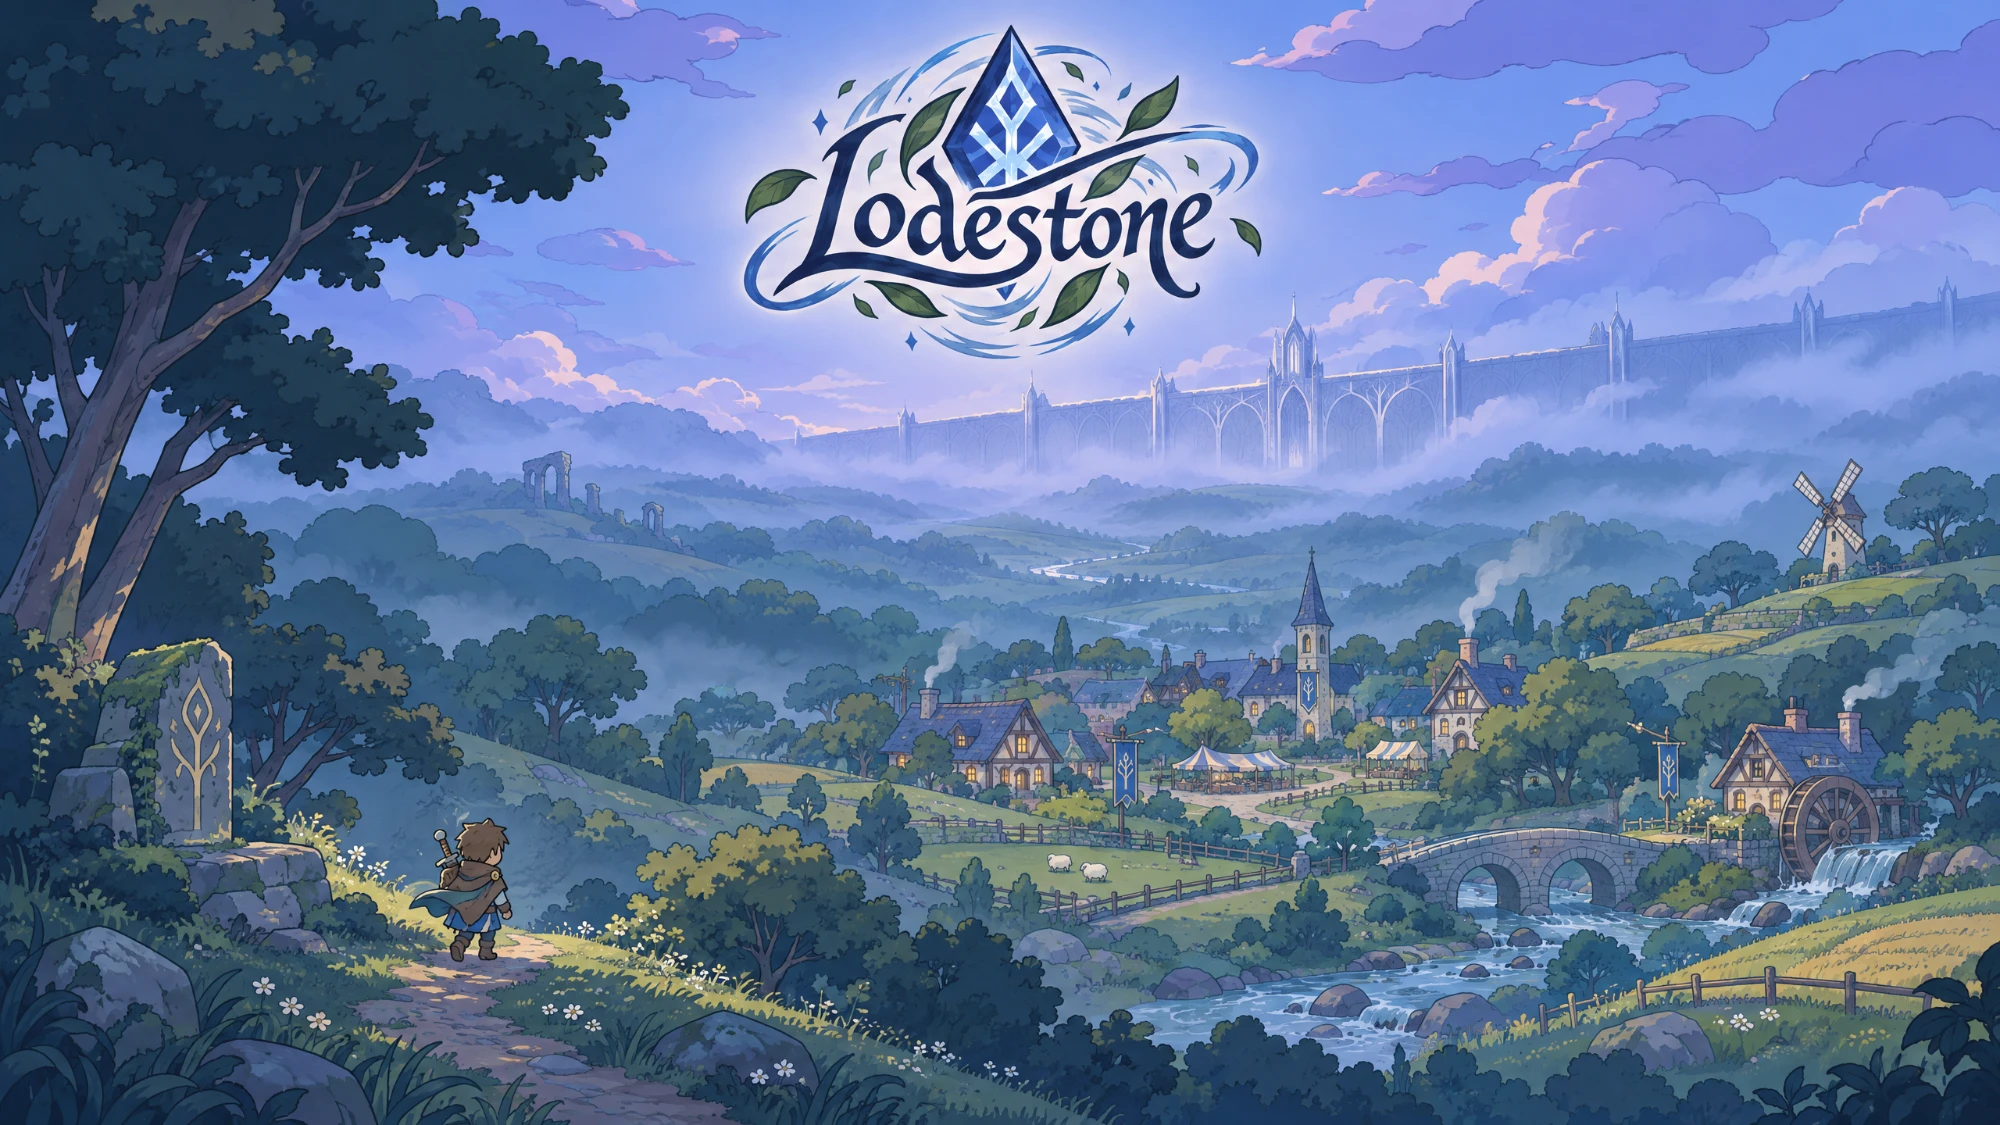
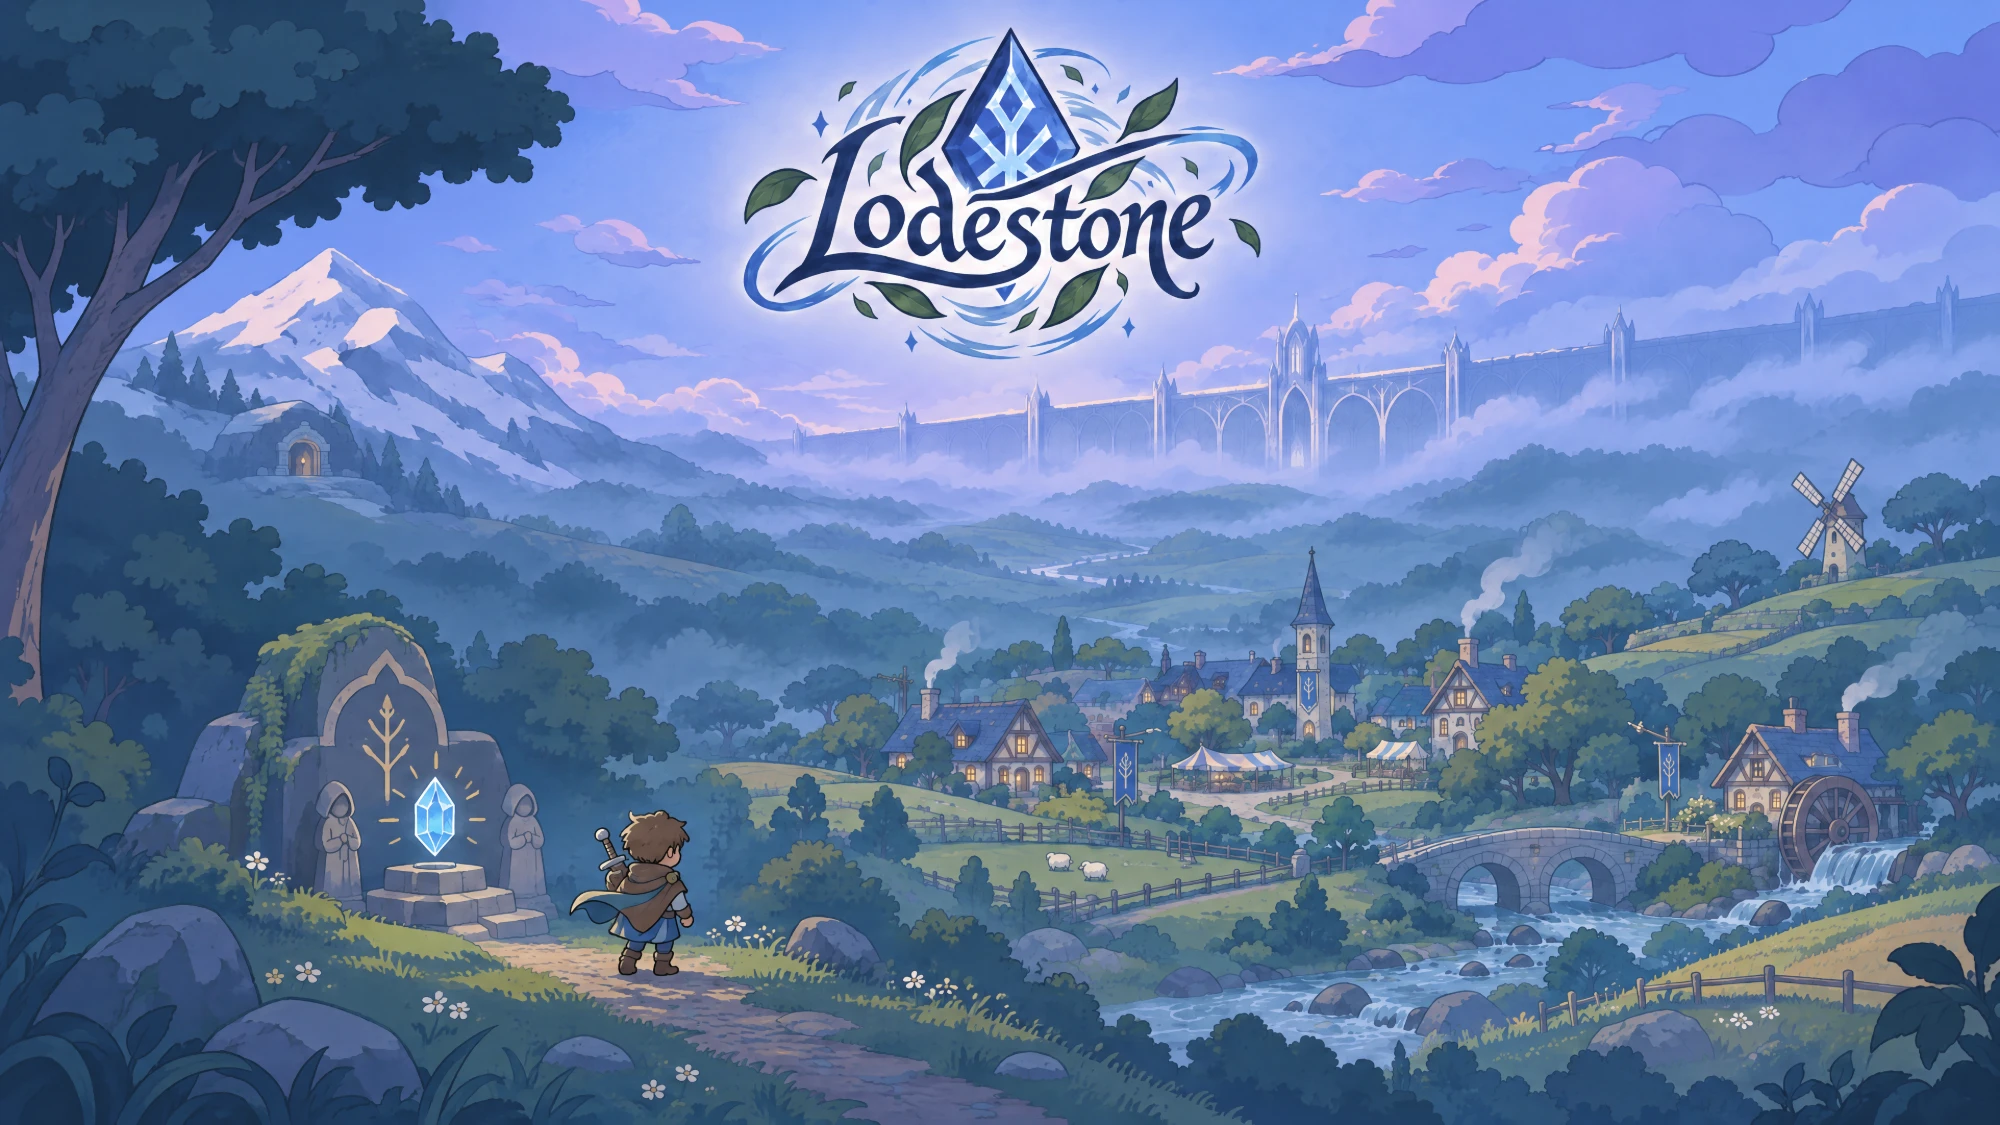
Main menu: Brandon's second title painting, buttons in the middle; app builds for big releases only
- title_screen.webp replaced with his new version (mountain cave, crystal shrine).
- The buttons stand in the middle of the screen, kept under the painted logo; a soft pool of shade behind them.
- CLAUDE.md: Mac/Windows builds only for a big release, never offered for ordinary work; day to day a change is done when it works in local Godot.

diff --git a/docs/systems/player-path.md b/docs/systems/player-path.md
@@ -3,7 +3,7 @@
 Built 2026-11-13 from a new-player E2E playtest (backlog section "2026-11-13 new-player playtest"). Brandon: "Yes, do all of this please. I think it would make sense if we had a "random encounter" that wasnt so random the first time a user goes out on the road that is a fair fight and has any explainers we need in it. And yes, there should be a main menu player path, with maybe another button for "Star game in Dev Mode" or the "Dev Tools" menu that if you click it opens all of our other tools we currently have on that main launch page."
 
 ## Main menu and dev mode
-- The game opens on `scenes/main_menu.tscn` (`MainMenu`): Brandon's title painting (`art/source/ui/menu/title_screen.webp`, 2026-11-13; the logo is painted in, so the menu draws no title) with a slow side-to-side sway, pinned to the top so the logo is never cut at any window shape. CONTINUE (when there is a save), NEW GAME (asks first when a save exists), OPTIONS and QUIT run down the dark trees on the left, clear of the logo, the hero and the village. Music: `menu`.
+- The game opens on `scenes/main_menu.tscn` (`MainMenu`): Brandon's title painting (`art/source/ui/menu/title_screen.webp`, 2026-11-13; the logo is painted in, so the menu draws no title) with a slow side-to-side sway, pinned to the top so the logo is never cut at any window shape. CONTINUE (when there is a save), NEW GAME (asks first when a save exists), OPTIONS and QUIT stand in the middle of the screen (Brandon: "Put em smack in the middle"), pushed down only as far as needed to stay under the logo (`LOGO_BOTTOM`). Music: `menu`.
 - DEV TOOLS (bottom right) opens the old launch page (`scenes/launch.tscn`, now titled DEV TOOLS) with every map, fight and tool. It shows only when `Game.dev_available()`: a debug build (the editor, `tools/godot.sh`) or a Mac with `~/.lodestone/dev`. Exported release builds never show it.
 - `Game.dev_mode`: on when the Dev Tools page opens or an F7/F8/F10 key is used; off on the main menu. Dev mode shows the god-mode "!" button, the fight test buttons (AUTO, LAYOUT), every playable character on the gate picker, and no hints. `Game.menu_scene()` is where "main menu" buttons go: Dev Tools in dev mode, else the main menu. SAVE AND EXIT and the end-of-playtest button use it.
 - F7, F8 and F10 work only when dev tools are available.

diff --git a/docs/art/ART-LOG.md b/docs/art/ART-LOG.md
@@ -31,7 +31,7 @@ The generated outputs are not in git, so a second machine can't see them. The re
 | --- | --- | --- | --- | --- |
 | Flat forest style panel | `docs/art/references/style-flat-forest*.png` | Brandon's own work | **approved** | The style reference for tiles and plates. |
 | Lodestone logo | `art/brand/lodestone-logo.webp` (transparent background) | Brandon's own work | **approved** | Brandon, 2026-10-29. Sits on parchment `#ece6d4` at the top of the studio page. |
-| Title screen painting (logo painted in) | `game/art/source/ui/menu/title_screen.webp` (2000 x 1125) | Brandon's own art | **approved** | Brandon, 2026-11-13: "Make this the menu screen please". The main menu's backdrop; the menu draws no title over it. |
+| Title screen painting (logo painted in) | `game/art/source/ui/menu/title_screen.webp` (2000 x 1125) | Brandon's own art | **approved** | Brandon, 2026-11-13: "Make this the menu screen please", then the same day a second version with the mountain cave and the crystal shrine ("use this one please"), which replaced the first. The main menu's backdrop; the menu draws no title over it. |
 | Flat zone tile sets (forest, snow, ruins, dungeon, farmland, marsh, canyon, crystal) | `game/art/source/battle/<set>/` | Picsart GPT image, cut by `kit_cut.py` | draft | In use in battle; Brandon hasn't signed them off. |
 | Village tiles and props (first set) | `art/picsart/out/village/`; `village_in/` still in the game | Picsart, `picsart_village.py` | **archived** for the town (2026-10-29), replaced by the fall set; the interiors still use `village_in` | About $1.57. |
 | Fall village set | `game/art/source/battle/village/` | code tops (`code_tops.py --biome village_fall`), Picsart sides, props, foliage, four homes; smithy, tavern and town hall cut from the v2 look sheet as stand-ins | **approved** (Brandon, 2026-10-29: "replace the town assets") | Run sheet B and the home B / C re-roll next. |

diff --git a/CLAUDE.md b/CLAUDE.md
@@ -15,13 +15,10 @@ Read `docs/context/README.md` first, then `docs/context/current-state.md`. Toget
 - After a change, run `tools/check.sh` (headless import, unit tests, scene smoke runs) and fix every error.
 - Any Godot run that opens a window (the `game/tools/*_shot.gd` screenshot scripts) goes through `tools/godot.sh <args>`, never the bare binary. It runs a private focus-free copy of Godot (built by `tools/nofocus/setup.sh`) that can never become the front app, so Brandon's windows, keyboard and mouse are never touched. Never run a windowed Godot any other way. Headless runs can use either.
 
-## Playtest builds at every major milestone
-Brandon, 2026-11-13: build the Mac and Windows copies "at regular major milestones". A major milestone is any of these:
-- a numbered milestone (M1, M2...) lands;
-- a feature or fix batch Brandon approved is merged to main;
-- before anything goes to friends and family testers.
+## Playtest builds: big releases only
+Day to day, a change is done when it works in the local Godot project: `tools/check.sh` passes, and screenshots go through `tools/godot.sh`. Don't build Mac or Windows apps for ordinary work, and don't offer to (Brandon, 2026-11-13: "dont ask to make mac/windows apps unless it's a big release. Just have it work on our local godot env"). This replaces his earlier same-day ask to build them at every major milestone.
 
-When one lands:
+For a big release, meaning one Brandon calls a release or a build going to friends and family testers:
 1. `tools/check.sh` passes.
 2. Run `tools/export/build.sh all`. It writes `build/mac/Lodestone.zip` and `build/windows/Lodestone.exe`. Headless Godot needs the Bash sandbox off.
 3. Smoke-test the Mac build: unzip it to a scratch folder and run `Lodestone.app/Contents/MacOS/Lodestone --headless --quit-after 300`. It must print only the version line. Any `ERROR` blocks the build, most often a data CSV not imported as "keep".
